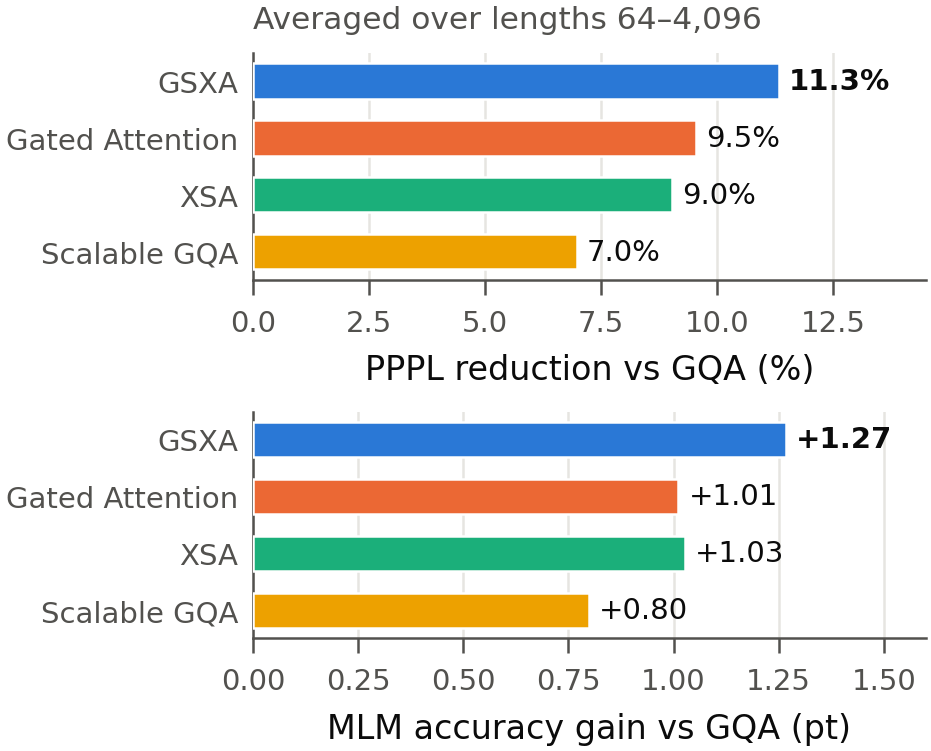
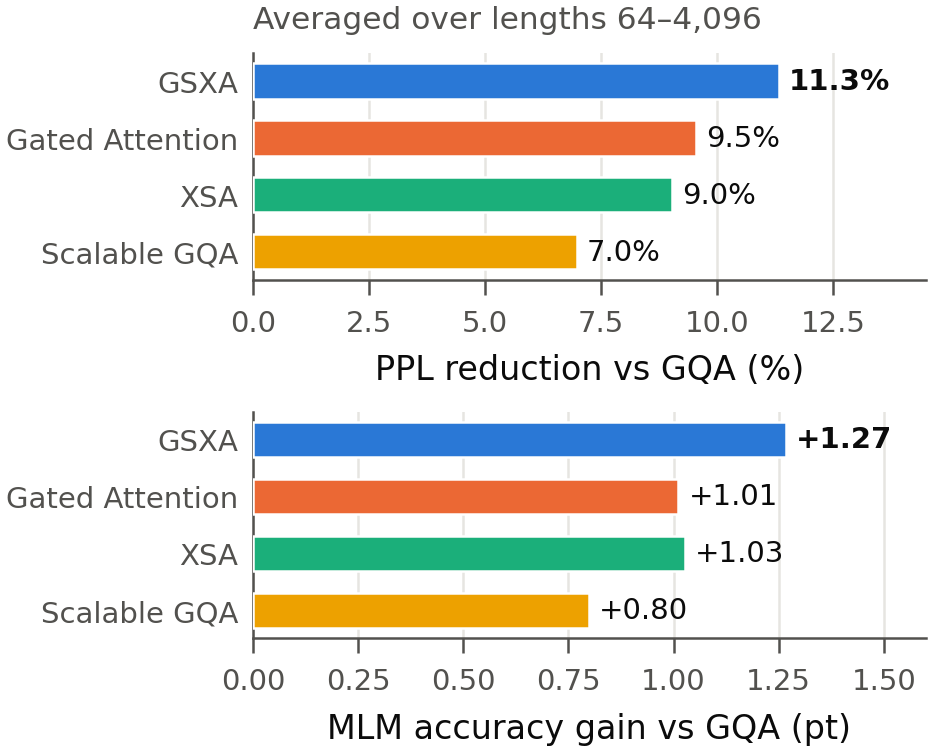
Call the metric masked-LM perplexity (PPL), not pseudo-perplexity
The scores are exp(mean cross-entropy) over a random 15% of tokens masked
in one pass -- ordinary masked-LM perplexity. Salazar et al.'s
pseudo-perplexity masks every token in turn, a different quantity, so the
PPPL label and that citation were wrong. README, figure labels and the
LaTeX table now say PPL; the JSON key stays "pppl".

Changed region(s): [[0.3738, 0.4594, 0.8722, 0.5206]]

diff --git a/results/make_figures.py b/results/make_figures.py
@@ -1,8 +1,9 @@
 #!/usr/bin/env python
 """Figures and tables of the attention ablation (GSXA and the four compared models).
 
-Reads the five scoring JSONs in ``results/attention_ablation/`` (pseudo-perplexity and
-MLM accuracy per sequence length, each the mean and 95% Student-t CI over 20 disjoint
+Reads the five scoring JSONs in ``results/attention_ablation/`` (masked-LM perplexity,
+stored under the key "pppl", and MLM accuracy per sequence length, each the mean and
+95% Student-t CI over 20 disjoint
 measurements) and writes, for sequence lengths 64 ... 4,096, into ``docs/figures/``:
 
 * ``fig1_bars_summary.{png,pdf}`` -- gains over GQA averaged over the lengths,
@@ -72,7 +73,7 @@ def series(data, key, metric):
 
 
 def relative(data, key, metric):
-    """PPPL ratio or accuracy difference vs GQA per length, with the conservative CI."""
+    """PPL ratio or accuracy difference vs GQA per length, with the conservative CI."""
     a, ca = series(data, key, metric)
     p, cp = series(data, BASELINE, metric)
     if metric == "pppl":   # ratio, CI by the delta method
@@ -85,7 +86,7 @@ def relative(data, key, metric):
 
 
 def averages(data, key):
-    """Geometric-mean PPPL reduction (%) and mean accuracy gain (points) vs GQA."""
+    """Geometric-mean PPL reduction (%) and mean accuracy gain (points) vs GQA."""
     r, _ = relative(data, key, "pppl")
     a, _ = relative(data, key, "mlm_acc")
     return 100.0 * (1.0 - math.exp(sum(math.log(x) for x in r) / len(r))), sum(a) / len(a)
@@ -114,7 +115,7 @@ def figure_bar_summary(plt, data):
     fig, axes = plt.subplots(2, 1, figsize=(TEXT_WIDTH / 2, 2.55), constrained_layout=True)
     rows = list(range(len(arms)))[::-1]
     for ax, which, xlabel, fmt, xmax in (
-            (axes[0], 0, f"PPPL reduction vs {BASE_NAME} (%)", "{:.1f}%", 14.5),
+            (axes[0], 0, f"PPL reduction vs {BASE_NAME} (%)", "{:.1f}%", 14.5),
             (axes[1], 1, f"MLM accuracy gain vs {BASE_NAME} (pt)", "+{:.2f}", 1.6)):
         for row, (key, _label, color) in zip(rows, arms):
             v = averages(data, key)[which]
@@ -135,12 +136,12 @@ def figure_bar_summary(plt, data):
 
 
 def figure_bars(plt, data):
-    """Grouped bars: PPPL reduction and accuracy gain over GQA at each length."""
+    """Grouped bars: PPL reduction and accuracy gain over GQA at each length."""
     arms = [a for a in ARMS if a[0] != BASELINE]
     fig, axes = plt.subplots(1, 2, figsize=(TEXT_WIDTH, 2.5), constrained_layout=True)
     n, width = len(arms), 0.2
     x = list(range(len(LENGTHS)))
-    for ax, metric, ylabel in ((axes[0], "pppl", f"PPPL reduction vs {BASE_NAME} (%)"),
+    for ax, metric, ylabel in ((axes[0], "pppl", f"PPL reduction vs {BASE_NAME} (%)"),
                                (axes[1], "mlm_acc", f"MLM accuracy gain vs {BASE_NAME} (points)")):
         for i, (key, label, color) in enumerate(arms):
             r, e = relative(data, key, metric)
@@ -187,7 +188,7 @@ def latex_table(data):
         "Model & " + " & ".join(f"{L:,}" + ("$^\\dag$" if L > TRAINED_LEN else "")
                                 for L in LENGTHS) + " \\\\",
     ]
-    for metric, title, lower in (("pppl", "Pseudo-perplexity $\\downarrow$", True),
+    for metric, title, lower in (("pppl", "Perplexity (PPL) $\\downarrow$", True),
                                  ("mlm_acc", "MLM accuracy (\\%) $\\uparrow$", False)):
         lines += ["\\midrule",
                   f"\\multicolumn{{{len(LENGTHS) + 1}}}{{l}}{{\\textit{{{title}}}}} \\\\"]
@@ -202,11 +203,11 @@ def latex_table(data):
 
 
 def markdown_tables(data):
-    """The README's tables: per-length PPPL and accuracy (mean +/- CI; bold = best in
+    """The README's tables: per-length PPL and accuracy (mean +/- CI; bold = best in
     the column) and the averages of Figure 1."""
     out = []
     head = " | ".join(f"{L:,}" + ("†" if L > TRAINED_LEN else "") for L in LENGTHS)
-    for metric, title, lower in (("pppl", "Pseudo-perplexity ↓", True),
+    for metric, title, lower in (("pppl", "Perplexity (PPL) ↓", True),
                                  ("mlm_acc", "MLM accuracy (%) ↑", False)):
         vals = {k: series(data, k, metric) for k, *_ in ARMS}
         out += [f"*{title}*", "", f"| Model | {head} |", "|:--|" + "--:|" * len(LENGTHS)]
@@ -217,7 +218,7 @@ def markdown_tables(data):
                      for i, c in enumerate(cells)]
             out.append(f"| {label} | " + " | ".join(cells) + " |")
         out.append("")
-    out += ["| Model | PPPL reduction vs GQA (geo. mean) | MLM accuracy gain vs GQA (mean) |",
+    out += ["| Model | PPL reduction vs GQA (geo. mean) | MLM accuracy gain vs GQA (mean) |",
             "|:--|--:|--:|"]
     for key, label, _c in ARMS:
         if key != BASELINE:

diff --git a/docs/figures/tab_attention_ablation.tex b/docs/figures/tab_attention_ablation.tex
@@ -5,7 +5,7 @@
 \toprule
 Model & 64 & 128 & 256 & 512 & 1,024 & 2,048$^\dag$ & 4,096$^\dag$ \\
 \midrule
-\multicolumn{8}{l}{\textit{Pseudo-perplexity $\downarrow$}} \\
+\multicolumn{8}{l}{\textit{Perplexity (PPL) $\downarrow$}} \\
 GSXA & \textbf{18.53} & \textbf{13.51} & \textbf{11.25} & \textbf{10.18} & \textbf{9.67} & \textbf{9.82} & \textbf{10.69} \\
 Gated Attention & 18.72 & 13.72 & 11.52 & 10.42 & 9.89 & 9.99 & 10.98 \\
 XSA & 18.82 & 13.64 & 11.43 & 10.36 & 9.97 & 10.25 & 11.20 \\

diff --git a/README.md b/README.md
@@ -15,12 +15,12 @@ attentions it is compared with, and reports a controlled comparison in a masked-
 encoder.
 
 <p align="center">
-  <img src="docs/figures/fig1_bars_summary.png" alt="GSXA reduces pseudo-perplexity by 11.3 % and raises MLM accuracy by 1.27 points over GQA, more than Gated Attention, XSA or Scalable GQA" width="60%">
+  <img src="docs/figures/fig1_bars_summary.png" alt="GSXA reduces masked-LM perplexity by 11.3 % and raises MLM accuracy by 1.27 points over GQA, more than Gated Attention, XSA or Scalable GQA" width="60%">
 </p>
 
 **Figure 1.** Gain over plain GQA, averaged over sequence lengths 64–4,096, for
-~100 M-parameter encoders trained identically on 1 B tokens: masked-LM
-pseudo-perplexity reduction (top) and MLM-accuracy gain (bottom).
+~100 M-parameter encoders trained identically on 1 B tokens: masked-LM perplexity
+(PPL) reduction (top) and MLM-accuracy gain (bottom).
 
 ## Method
 
@@ -114,13 +114,15 @@ once, on 1 B tokens of English web and code at sequence length 1,024. The recipe
 data order are identical: masked LM with 30 % masking, batch 512, AdamW at learning
 rate 6 × 10⁻⁴ with cosine decay, seed 1234. Evaluation uses held-out text: for each
 length, 20 measurements of 65,536 tokens with 15 % masking, reported as mean ± 95 % CI.
-The metrics are pseudo-perplexity (PPPL, Salazar et al., 2020) and MLM accuracy. Raw
-scores are in [`results/attention_ablation/`](results/attention_ablation).
+The metrics are masked-LM perplexity (PPL) and MLM accuracy. PPL is the exponential
+of the mean cross-entropy over the masked tokens. MLM accuracy is the top-1 accuracy
+at those tokens. Raw scores are in
+[`results/attention_ablation/`](results/attention_ablation).
 
 **Table 1.** Masked-LM quality by sequence length († = beyond the training length;
 bold = best in the column).
 
-*Pseudo-perplexity ↓*
+*Perplexity (PPL) ↓*
 
 | Model | 64 | 128 | 256 | 512 | 1,024 | 2,048† | 4,096† |
 |:--|--:|--:|--:|--:|--:|--:|--:|
@@ -141,16 +143,16 @@ bold = best in the column).
 | GQA | 46.93 ± 0.30 | 51.70 ± 0.37 | 54.45 ± 0.32 | 55.85 ± 0.32 | 56.43 ± 0.43 | 55.58 ± 0.49 | 52.69 ± 0.81 |
 
 <p align="center">
-  <img src="docs/figures/fig2_bars_by_length.png" alt="Pseudo-perplexity reduction and MLM accuracy gain over GQA at each length from 64 to 4,096" width="100%">
+  <img src="docs/figures/fig2_bars_by_length.png" alt="Perplexity reduction and MLM accuracy gain over GQA at each length from 64 to 4,096" width="100%">
 </p>
 
 **Figure 2.** Gain over GQA at each length. The whiskers are 95 % CIs that treat the
 two models as independent; they are conservative, since all models share the
 evaluation windows and masks.
 
-* GSXA has the lowest pseudo-perplexity at every length and the highest MLM accuracy
-  at all but one (128).
-* Against GQA it reduces pseudo-perplexity by 7.0 % at the training length. The
+* GSXA has the lowest perplexity at every length and the highest MLM accuracy at all
+  but one (128).
+* Against GQA it reduces perplexity by 7.0 % at the training length. The
   intervals do not overlap there. Beyond the training length the reduction is
   11.9 % at 2,048 and 25.9 % at 4,096.
 * Against the other Scalable-GQA variants its margin at any single length is within
@@ -209,7 +211,6 @@ model = GSXAForMaskedLM.from_pretrained("path/to/checkpoint", dtype=torch.bfloat
   Multi-Head Checkpoints.* arXiv:2305.13245, 2023.
 * J. Su et al. *RoFormer: Enhanced Transformer with Rotary Position Embedding.*
   arXiv:2104.09864, 2021.
-* J. Salazar et al. *Masked Language Model Scoring.* ACL 2020.
 
 ## Citation
 
